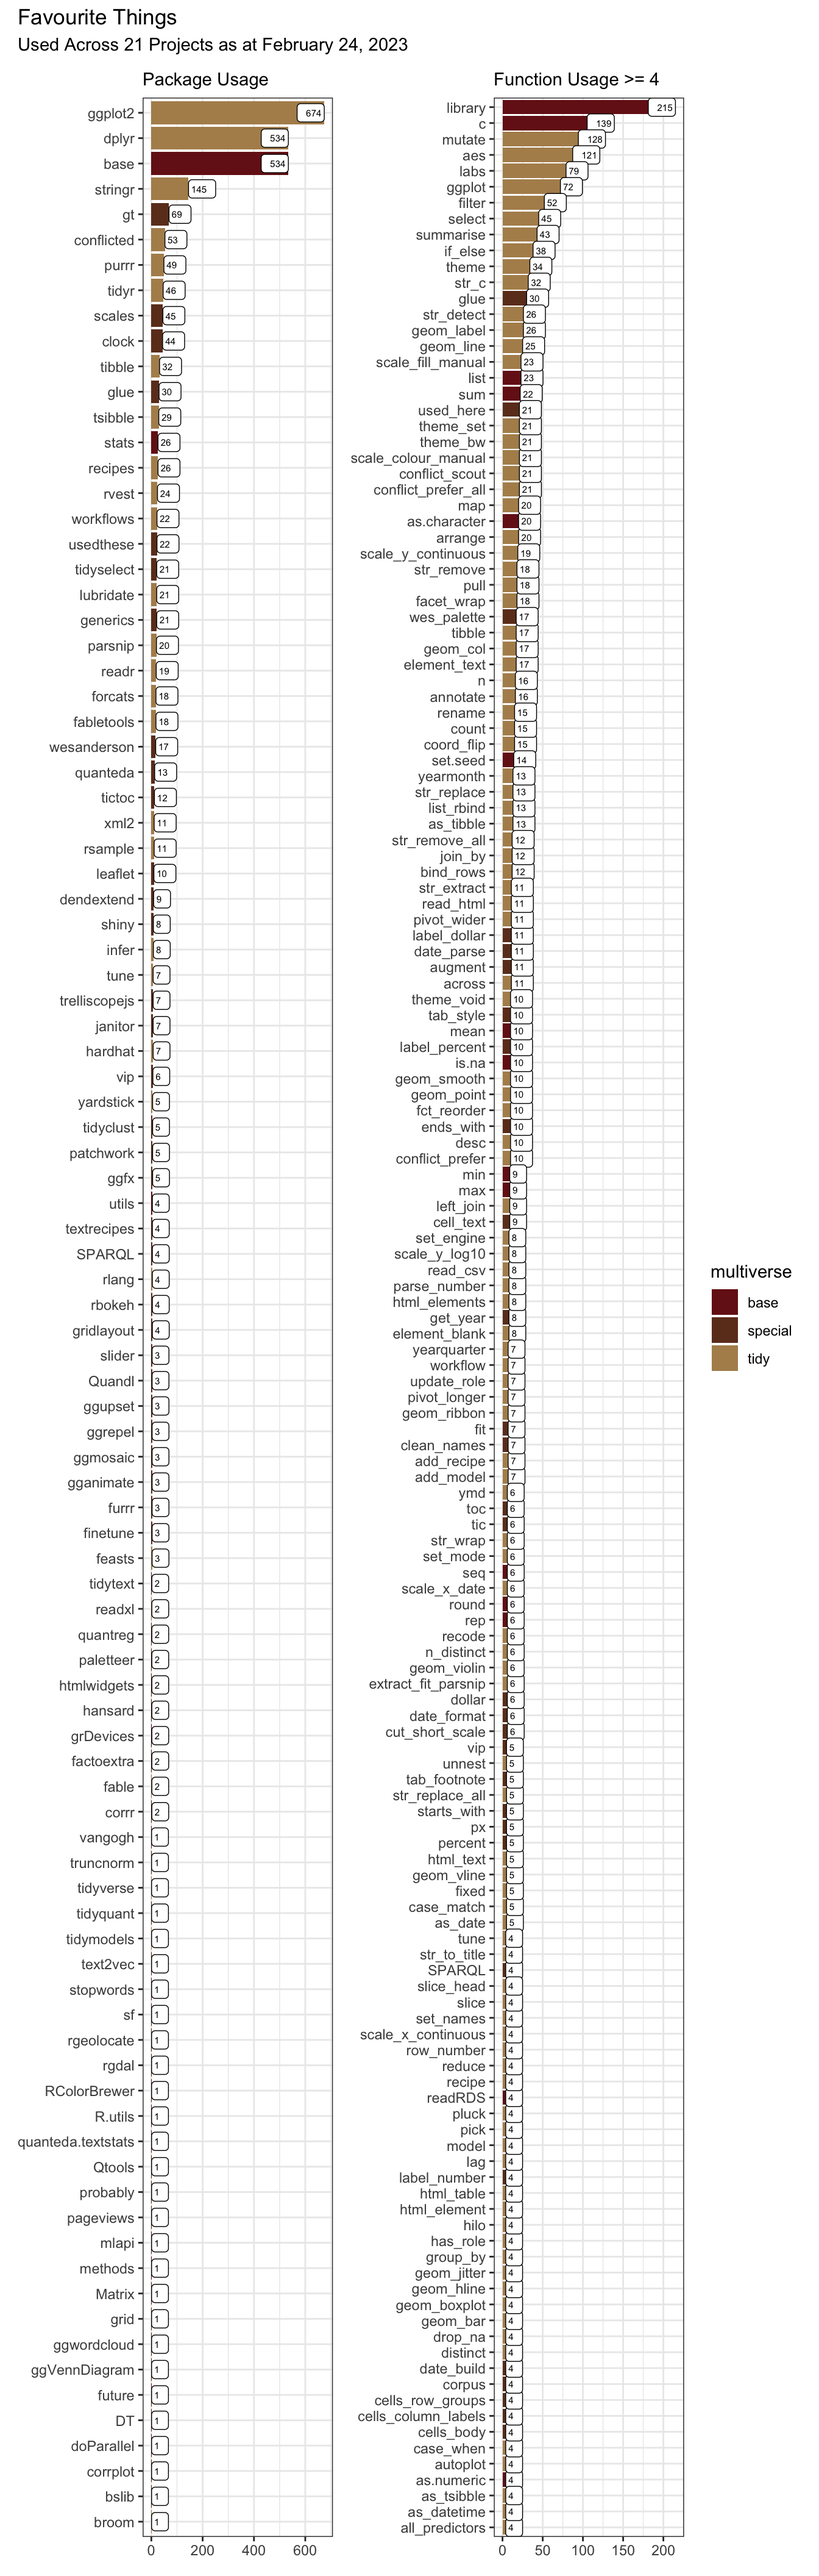
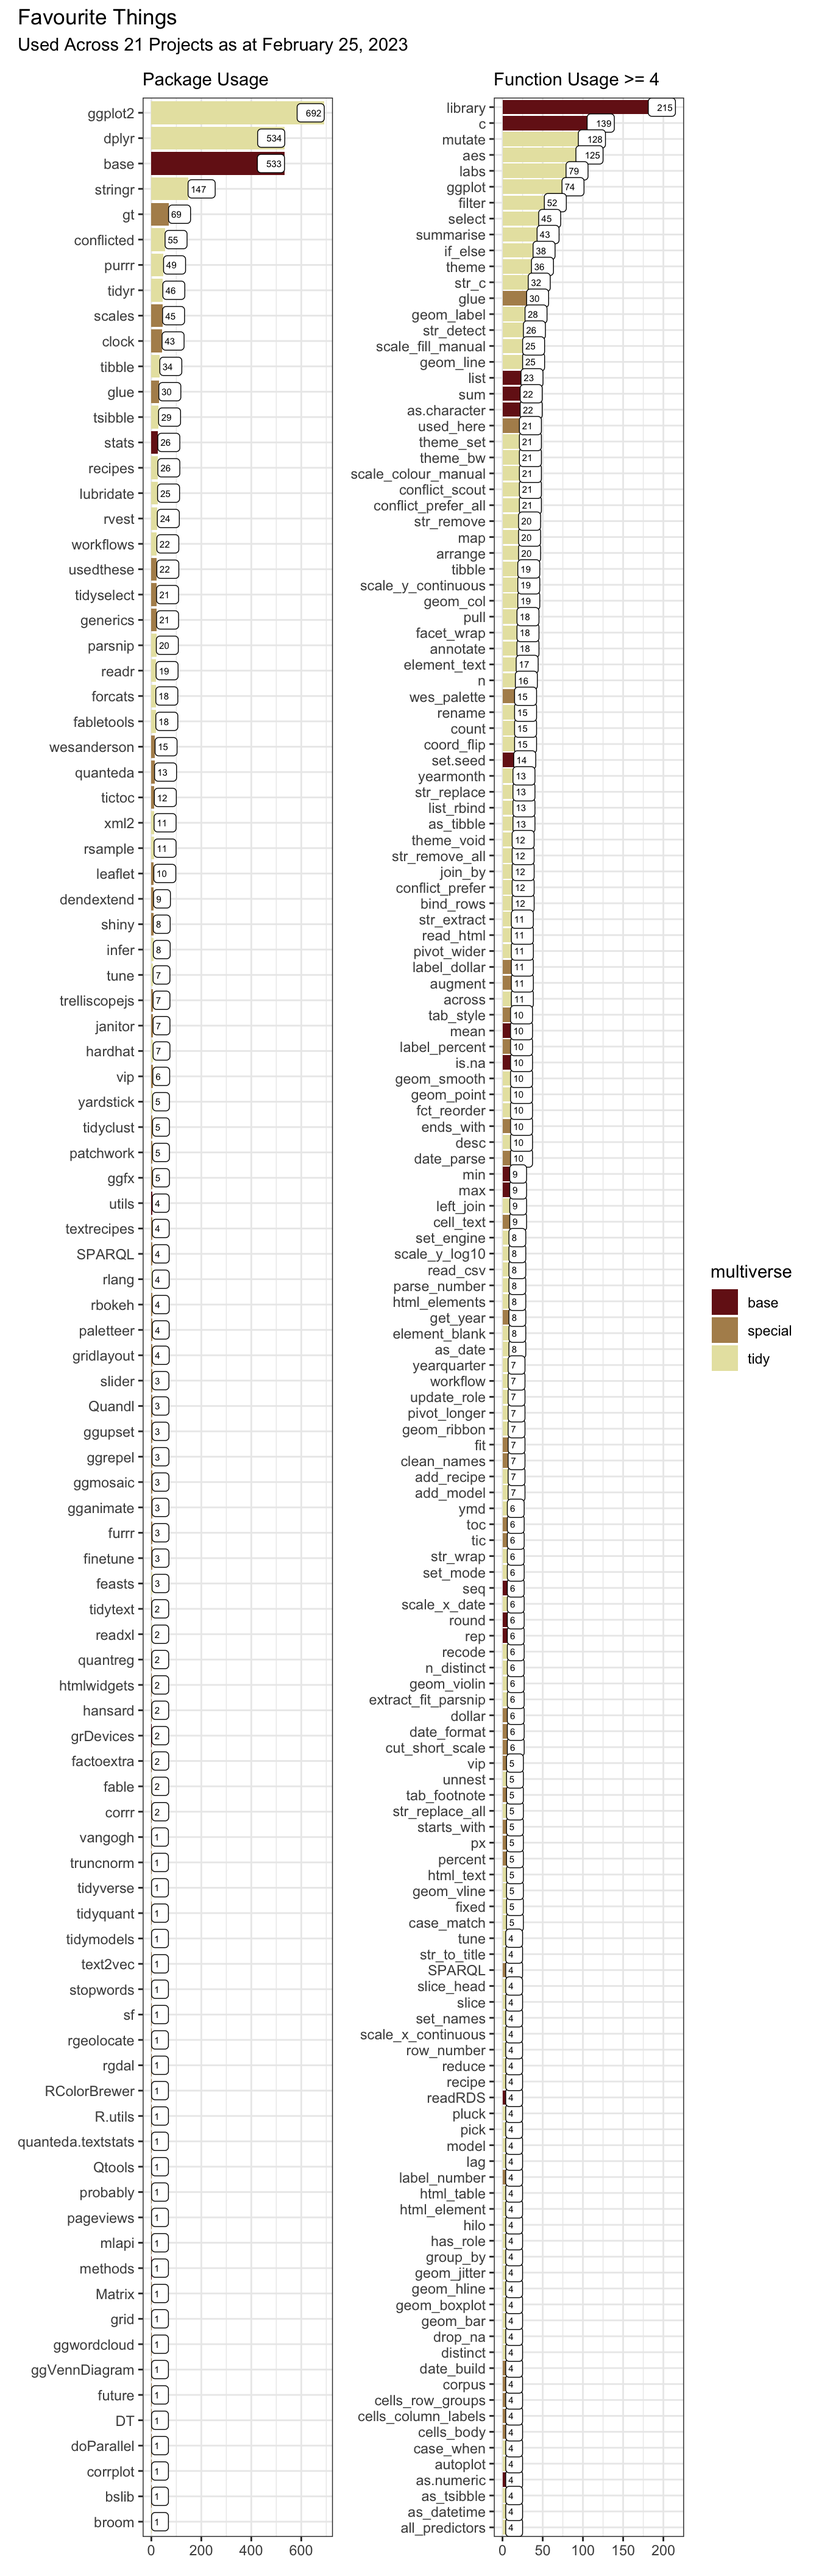
Refresh Box for project updates

diff --git a/_site/project/box/index.html b/_site/project/box/index.html
@@ -227,7 +227,7 @@ code span.wa { color: #60a0b0; font-weight: bold; font-style: italic; } /* Warni
     <div>
     <div class="quarto-title-meta-heading">Modified</div>
     <div class="quarto-title-meta-contents">
-      <p class="date-modified">February 24, 2023</p>
+      <p class="date-modified">February 25, 2023</p>
     </div>
   </div>
     
@@ -350,7 +350,7 @@ code span.wa { color: #60a0b0; font-weight: bold; font-style: italic; } /* Warni
 <span>  <span class="fu"><a href="https://ggplot2.tidyverse.org/reference/geom_bar.html">geom_col</a></span><span class="op">(</span>show.legend <span class="op">=</span> <span class="cn">FALSE</span><span class="op">)</span> <span class="op">+</span></span>
 <span>  <span class="fu"><a href="https://ggplot2.tidyverse.org/reference/coord_flip.html">coord_flip</a></span><span class="op">(</span><span class="op">)</span> <span class="op">+</span></span>
 <span>  <span class="fu"><a href="https://ggplot2.tidyverse.org/reference/geom_text.html">geom_label</a></span><span class="op">(</span><span class="fu"><a href="https://ggplot2.tidyverse.org/reference/aes.html">aes</a></span><span class="op">(</span>label <span class="op">=</span> <span class="va">n</span><span class="op">)</span>, hjust <span class="op">=</span> <span class="st">"inward"</span>, size <span class="op">=</span> <span class="fl">2</span>, fill <span class="op">=</span> <span class="st">"white"</span><span class="op">)</span> <span class="op">+</span></span>
-<span>  <span class="fu"><a href="https://ggplot2.tidyverse.org/reference/scale_manual.html">scale_fill_manual</a></span><span class="op">(</span>values <span class="op">=</span> <span class="va">cols</span><span class="op">[</span><span class="fu"><a href="https://rdrr.io/r/base/c.html">c</a></span><span class="op">(</span><span class="fl">4</span>, <span class="fl">3</span>, <span class="fl">2</span><span class="op">)</span><span class="op">]</span><span class="op">)</span> <span class="op">+</span></span>
+<span>  <span class="fu"><a href="https://ggplot2.tidyverse.org/reference/scale_manual.html">scale_fill_manual</a></span><span class="op">(</span>values <span class="op">=</span> <span class="va">cols</span><span class="op">[</span><span class="fu"><a href="https://rdrr.io/r/base/c.html">c</a></span><span class="op">(</span><span class="fl">4</span>, <span class="fl">2</span>, <span class="fl">1</span><span class="op">)</span><span class="op">]</span><span class="op">)</span> <span class="op">+</span></span>
 <span>  <span class="fu"><a href="https://ggplot2.tidyverse.org/reference/labs.html">labs</a></span><span class="op">(</span>x <span class="op">=</span> <span class="cn">NULL</span>, y <span class="op">=</span> <span class="cn">NULL</span>, </span>
 <span>       subtitle <span class="op">=</span> <span class="fu"><a href="https://glue.tidyverse.org/reference/glue.html">glue</a></span><span class="op">(</span><span class="st">"Package Usage"</span><span class="op">)</span><span class="op">)</span></span>
 <span></span>
@@ -362,7 +362,7 @@ code span.wa { color: #60a0b0; font-weight: bold; font-style: italic; } /* Warni
 <span>  <span class="fu"><a href="https://ggplot2.tidyverse.org/reference/geom_bar.html">geom_col</a></span><span class="op">(</span><span class="op">)</span> <span class="op">+</span></span>
 <span>  <span class="fu"><a href="https://ggplot2.tidyverse.org/reference/coord_flip.html">coord_flip</a></span><span class="op">(</span><span class="op">)</span> <span class="op">+</span></span>
 <span>  <span class="fu"><a href="https://ggplot2.tidyverse.org/reference/geom_text.html">geom_label</a></span><span class="op">(</span><span class="fu"><a href="https://ggplot2.tidyverse.org/reference/aes.html">aes</a></span><span class="op">(</span>label <span class="op">=</span> <span class="va">n</span><span class="op">)</span>, hjust <span class="op">=</span> <span class="st">"inward"</span>, size <span class="op">=</span> <span class="fl">2</span>, fill <span class="op">=</span> <span class="st">"white"</span><span class="op">)</span> <span class="op">+</span></span>
-<span>  <span class="fu"><a href="https://ggplot2.tidyverse.org/reference/scale_manual.html">scale_fill_manual</a></span><span class="op">(</span>values <span class="op">=</span> <span class="va">cols</span><span class="op">[</span><span class="fu"><a href="https://rdrr.io/r/base/c.html">c</a></span><span class="op">(</span><span class="fl">4</span>, <span class="fl">3</span>, <span class="fl">2</span><span class="op">)</span><span class="op">]</span><span class="op">)</span> <span class="op">+</span></span>
+<span>  <span class="fu"><a href="https://ggplot2.tidyverse.org/reference/scale_manual.html">scale_fill_manual</a></span><span class="op">(</span>values <span class="op">=</span> <span class="va">cols</span><span class="op">[</span><span class="fu"><a href="https://rdrr.io/r/base/c.html">c</a></span><span class="op">(</span><span class="fl">4</span>, <span class="fl">2</span>, <span class="fl">1</span><span class="op">)</span><span class="op">]</span><span class="op">)</span> <span class="op">+</span></span>
 <span>  <span class="fu"><a href="https://ggplot2.tidyverse.org/reference/labs.html">labs</a></span><span class="op">(</span>x <span class="op">=</span> <span class="cn">NULL</span>, y <span class="op">=</span> <span class="cn">NULL</span>, </span>
 <span>       subtitle <span class="op">=</span> <span class="fu"><a href="https://glue.tidyverse.org/reference/glue.html">glue</a></span><span class="op">(</span><span class="st">"Function Usage &gt;= {min_n}"</span><span class="op">)</span><span class="op">)</span></span>
 <span></span>
